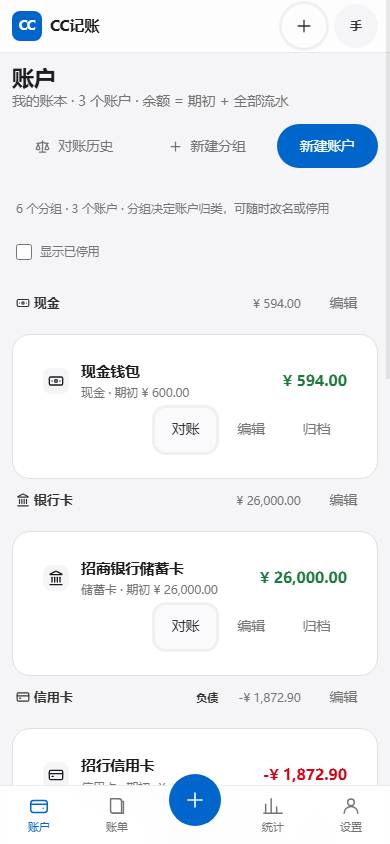
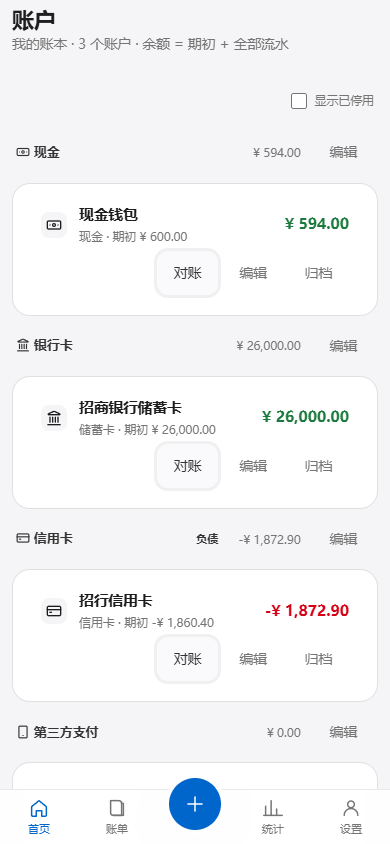
refactor(mobile): 移除顶部固定条 app-bar（导航与记一笔改由 dock 承担）
- chrome.js 删除 topBar() 与 nav-slot；invite.js 不再渲染顶栏
- app.css/mobile.css 删除 .app-bar 系列；顶部安全区改由 .page padding-top 承担
- 修三处依赖顶栏高度的偏移：tx-day__head / tx-toolbar / invite-main
- probe:mobile 改为断言顶栏已移除 + dock 与记一笔入口仍在（101/101）
- 版本同步 1.1.6；SW v27

diff --git a/public/assets/chrome.js b/public/assets/chrome.js
@@ -290,42 +290,6 @@ export function sidebar({ active = '', user, ledger = null, hideCompose = false 
   return shell;
 }
 
-/**
- * 顶部细条（仅移动端显示）。
- * 桌面端品牌 / 导航 / 用户都在左侧栏里，这条不出现。
- * 右上角的 44×44 圆形图标按钮是移动端的第二个记账入口（docs/13 §3.3）。
- */
-export function topBar({ user = null, hideCompose = false } = {}) {
-  // 头像已按设计移除：顶部不再有「头像那一行卡片」。
-  // 未登录（user === null）时保留「登录」入口；会话未就绪（undefined）先留空。
-  const chip =
-    user
-      ? ''
-      : user === null
-        ? `<a class="btn btn--quiet btn--sm" href="/login" data-link>登录</a>`
-        : '';
-
-  const compose = hideCompose
-    ? ''
-    : `<button class="btn btn--icon btn--pearl" type="button" data-compose
-          title="记一笔（长按选模板）" aria-label="记一笔">${icon('plus', 20)}</button>`;
-
-  return h(`
-    <header class="app-bar">
-      <div class="app-bar__inner">
-        <a class="brand" href="/" data-link>
-          <span class="brand__tile">CC</span>
-          <span class="brand__name">CC记账</span>
-        </a>
-        <div class="app-bar__right">
-          ${compose}
-          ${chip}
-        </div>
-      </div>
-    </header>
-  `);
-}
-
 /** 一行版权页脚 */
 export function siteFooter() {
   return h(`
@@ -336,7 +300,7 @@ export function siteFooter() {
 }
 
 /**
- * 页面外框：左侧导航 + （移动端）顶栏 + 内容 + 页脚 + （移动端）底部导航。
+ * 页面外框：左侧导航 + 内容 + 页脚 + （移动端）底部导航。
  * 各记账页只需提供 inner HTML，避免每页重复拼骨架。
  * @param {{active?:string, user?:object|null, ledger?:object|null, inner?:string, hideCompose?:boolean}} cfg
  */
@@ -359,7 +323,6 @@ export function appFrame({ active = '', user, ledger = null, inner = '', hideCom
     <div class="shell">
       <div data-role="sidebar-slot"></div>
       <div class="shell__main">
-        <div data-role="nav-slot"></div>
         <main class="page">${inner}</main>
         <div data-role="footer-slot"></div>
       </div>
@@ -369,10 +332,9 @@ export function appFrame({ active = '', user, ledger = null, inner = '', hideCom
   root
     .querySelector('[data-role=sidebar-slot]')
     .replaceWith(sidebar({ active, user, ledger, hideCompose }));
-  root.querySelector('[data-role=nav-slot]').replaceWith(topBar({ user, hideCompose }));
   root.querySelector('[data-role=footer-slot]').replaceWith(siteFooter());
   /**
-   * 桌面两处「记一笔」（侧栏 CTA、移动端顶栏图标）都接上**同一个**手势处理器：
+   * 「记一笔」入口（侧栏 CTA、移动端 TabBar 动作位）都接上**同一个**手势处理器：
    * 短按跳空表单、长按出模板面板。`data-compose` 是唯一的识别标记 ——
    * 移动端 TabBar 的动作位也是它（那边自己包了一层 `.mega-host` 做定位上下文）。
    */

diff --git a/public/assets/mobile.css b/public/assets/mobile.css
@@ -56,12 +56,13 @@
     --page-gutter: 12px; /* 紧凑化：20/16 太宽，账单行更易折行 */
     --card-gap: 8px; /* 紧凑化：卡片间留白收到 8（spacing.sm 下限） */
     --tabbar-h: 54px; /* 紧凑化：5 槽 + 抬升动作位，仍 ≥44 标签底线 */
-    --appbar-h: 48px; /* 紧凑化：顶栏更薄 */
   }
 
-  /* ---------- 页面容器 ---------- */
+  /* ---------- 页面容器 ----------
+     顶栏（.app-bar）已移除：顶部安全区改由 .page 自己的 padding-top 承担，
+     否则刘海机型的内容会顶到状态栏底下。 */
   .page {
-    padding: 8px var(--page-gutter)
+    padding: calc(8px + env(safe-area-inset-top, 0px)) var(--page-gutter)
       calc(var(--tabbar-h) + env(safe-area-inset-bottom, 0px) + 36px);
     gap: 12px;
   }
@@ -75,26 +76,8 @@
     padding-bottom: calc(20px + var(--tabbar-h));
   }
 
-  /* ---------- 顶栏：磨砂 + 安全区 ----------
-     00-DESIGN 的 floating sticky bar 语法：backdrop-blur + hairline，
-     不给投影（投影只给脱离页面流的浮层）。 */
-  .app-bar {
-    z-index: 25;
-    padding-top: env(safe-area-inset-top, 0px);
-  }
-
-  .app-bar__inner {
-    height: var(--appbar-h);
-    padding: 0 var(--page-gutter);
-  }
-
-  .brand__name {
-    font-size: 15px;
-  }
-
-  .app-bar__right .btn {
-    min-height: 44px;
-  }
+  /* 顶栏（.app-bar）已按设计移除：移动端顶部不再有固定的品牌条，
+     品牌与「记一笔」分别由侧栏（桌面）与底部 TabBar 动作位承担。 */
 
   /* 头像字符（无图时取昵称首字）在圆内居中：grid 居中只管盒子，
      字符本身还会被字体行高带偏，显式压掉行高才真正居中。 */
@@ -365,12 +348,12 @@
   }
 
   /* 日期头吸顶：专业记账 App（随手记 / YNAB）的标配 —— 长列表滚动时
-     当前看的是哪一天始终钉在顶栏正下方，当日收支小计不丢。
-     背景用页面底色（--c-canvas），行在下方滑过时干净遮住；顶栏 sticky 在
-     top:0、本头 sticky 在 appbar-h + 安全区，两者不重叠。纯 CSS、未动结构。 */
+     当前看的是哪一天始终钉在顶部，当日收支小计不丢。
+     背景用页面底色（--c-canvas），行在下方滑过时干净遮住；顶部已无顶栏，
+     本头 sticky 在安全区之下（刘海机型不钻到状态栏底下）。纯 CSS、未动结构。 */
   .tx-day__head {
     position: sticky;
-    top: calc(var(--appbar-h) + env(safe-area-inset-top, 0px));
+    top: env(safe-area-inset-top, 0px);
     z-index: 5;
     margin-bottom: 4px;
     padding: 4px 4px 2px;

diff --git a/public/assets/app.css b/public/assets/app.css
@@ -695,34 +695,6 @@ a.acct-row:active {
   color: currentColor;
 }
 
-/* --------- 3.4 顶部细条（仅移动端；桌面由侧栏承担品牌与用户） --------- */
-.app-bar {
-  position: sticky;
-  top: 0;
-  z-index: 20;
-  background: var(--c-frost-bg);
-  -webkit-backdrop-filter: var(--frost-blur);
-  backdrop-filter: var(--frost-blur);
-  border-bottom: 1px solid var(--c-hairline-soft);
-}
-
-.app-bar__inner {
-  max-width: var(--w-content);
-  margin: 0 auto;
-  padding: 0 var(--gutter);
-  height: var(--nav-h);
-  display: flex;
-  align-items: center;
-  gap: 12px;
-}
-
-.app-bar__right {
-  margin-left: auto;
-  display: flex;
-  align-items: center;
-  gap: 8px;
-}
-
 /* --------- 3.5 品牌 --------- */
 .brand {
   display: inline-flex;
@@ -1671,11 +1643,12 @@ a.acct-row:active {
    十·补充、邀请落地页（整页一张居中卡片）
    ========================================================================== */
 .invite-main {
-  min-height: calc(100dvh - var(--nav-h) - 64px);
+  /* 顶栏已移除：不再扣掉 --nav-h，否则底部空出一条；顶部补安全区 */
+  min-height: calc(100dvh - 64px);
   display: flex;
   align-items: center;
   justify-content: center;
-  padding: 40px var(--gutter);
+  padding: calc(40px + env(safe-area-inset-top, 0px)) var(--gutter) 40px;
   background: var(--c-parchment);
 }
 
@@ -5955,14 +5928,7 @@ a.acct-row:hover {
    十四、响应式
    ========================================================================== */
 
-/* --------- 桌面（≥1024px）：左侧导航栏承担品牌 / 导航 / 用户 --------- */
-@media (min-width: 1024px) {
-  .shell .app-bar {
-    display: none;
-  }
-}
-
-/* --------- 平板与手机（≤1023px）：收起侧栏，改顶栏 + 底部 TabBar --------- */
+/* --------- 平板与手机（≤1023px）：收起侧栏，底部 TabBar --------- */
 @media (max-width: 1023px) {
   .shell {
     grid-template-columns: minmax(0, 1fr);
@@ -6242,9 +6208,10 @@ a.acct-row:hover {
 }
 
 @media (max-width: 1023px) {
-  /* 顶栏在移动端是 sticky 的（z-index 20），工具栏必须让开它的高度 */
+  /* 顶栏（.app-bar）已移除：工具栏直接吸在顶部，不再让出 --nav-h
+     （否则上方会空出一条、行从缝里穿过去）；刘海机型只需让开安全区。 */
   .tx-toolbar {
-    top: var(--nav-h);
+    top: env(safe-area-inset-top, 0px);
   }
 
   /* 批量选择条要让开底部 TabBar，否则按钮被压住点不到 */

diff --git a/public/assets/views/invite.js b/public/assets/views/invite.js
@@ -4,7 +4,7 @@
  */
 import { Api, ApiError } from '../api.js';
 import { auth } from '../store.js';
-import { siteFooter, topBar } from '../chrome.js';
+import { siteFooter } from '../chrome.js';
 import { avatarHtml, esc, formatDateTime, h, LEDGER_TYPE_LABEL, ROLE_LABEL, setLoading, toast } from '../ui.js';
 
 const INVALID_REASON = {
@@ -16,15 +16,12 @@ const INVALID_REASON = {
 function shell(cardInner) {
   const view = h(`
     <div>
-      <div data-role="nav-slot"></div>
       <main class="invite-main">
         <div class="invite-card">${cardInner}</div>
       </main>
       <div data-role="footer-slot"></div>
     </div>
   `);
-  // 未登录时 topBar 自动渲染「登录」按钮；已登录时渲染用户胶囊（可进「我的」）
-  view.querySelector('[data-role=nav-slot]').replaceWith(topBar({ user: auth.me }));
   view.querySelector('[data-role=footer-slot]').replaceWith(siteFooter());
   return view;
 }

diff --git a/public/sw.js b/public/sw.js
@@ -21,7 +21,7 @@
  * 静态资源走 SWR，不换版本号的话用户第一次刷新拿到的仍是旧 JS ——
  * 正好是要修的那份，会被当成「没修好」。
  */
-const VERSION = 'cc-ledger-v26';
+const VERSION = 'cc-ledger-v27';
 const SHELL = `${VERSION}-shell`;
 const STATIC = `${VERSION}-static`;
 const API = `${VERSION}-api`;

diff --git a/src/config/env.ts b/src/config/env.ts
@@ -45,7 +45,7 @@ const EnvSchema = z.object({
   ENABLE_SCHEDULER: boolEnv(true),
   BACKUP_ENABLED: boolEnv(true),
   BACKUP_RETENTION_DAYS: z.coerce.number().int().min(0).default(14),
-  APP_VERSION: z.string().min(1).default('1.1.5'),
+  APP_VERSION: z.string().min(1).default('1.1.6'),
 });
 
 export type Env = z.infer<typeof EnvSchema>;

diff --git a/DEPLOY-绿联NAS.md b/DEPLOY-绿联NAS.md
@@ -216,7 +216,7 @@ cat .env
 | 配置项 | 作用 | 能不能改 |
 |---|---|---|
 | `build: context: .` | 用当前目录的 `Dockerfile` 构建镜像 | 别改 |
-| `image: ${CC_IMAGE:-cc-ledger:1.1.5}` | 用哪个镜像：不设 `CC_IMAGE` 就用本地构建的这个名字；设成 `ghcr.io/shayi/cc-ledger:latest` 就是拉 GitHub 构建好的 | 可改（见 5.0） |
+| `image: ${CC_IMAGE:-cc-ledger:1.1.6}` | 用哪个镜像：不设 `CC_IMAGE` 就用本地构建的这个名字；设成 `ghcr.io/shayi/cc-ledger:latest` 就是拉 GitHub 构建好的 | 可改（见 5.0） |
 | `restart: unless-stopped` | **开机自启的核心**：容器退出就自动拉起；你手动停的则不再拉 | 见第五节 |
 | `ports: "3000:3000"` | **端口映射**，见第六节 | 端口冲突时只改左边 |
 | `JWT_SECRET` | 登录凭证密钥 | **必改**，其余可不动 |
@@ -270,7 +270,7 @@ echo 'CC_IMAGE=ghcr.io/shayi/cc-ledger:latest' >> .env
 ```
 
 > `CC_IMAGE` 不是应用的环境变量，只被 `docker-compose.yml` 读取，用来决定「用哪个镜像」。
-> 不写这一行 = 走本地构建（默认 `cc-ledger:1.1.5`）。
+> 不写这一行 = 走本地构建（默认 `cc-ledger:1.1.6`）。
 
 **第 2 步：登录 ghcr**（镜像设为 public 后可以跳过这步）
 
@@ -299,7 +299,7 @@ docker compose up -d
 |---|---|---|
 | `latest` | 每次推 `main` | 日常用这个 |
 | `sha-626e08c` | 每次构建 | 想钉死到某一次提交 |
-| `v1.1.5` | 打了 `v*` tag | 固定版本 |
+| `v1.1.6` | 打了 `v*` tag | 固定版本 |
 
 **想把镜像设为 public（这样任何机器不用登录就能拉）**：
 GitHub → 你的头像 → Your profile → **Packages** → `cc-ledger` → 右侧 **Package settings** →
@@ -717,7 +717,7 @@ curl http://127.0.0.1:3000/healthz
 {
   "status": "ok",
   "app": "CC记账",
-  "version": "1.1.5",
+  "version": "1.1.6",
   "uptimeSeconds": 3944,
   "database": { "connected": true, "migrationsApplied": 17, "walMode": true },
   "scheduler": { "running": true, "nextRun": "...", "tasks": [] }

diff --git a/CHANGELOG.md b/CHANGELOG.md
@@ -4,6 +4,25 @@
 打 `v*` tag 时 GitHub Actions 会产出同名的固定版本镜像（如 `v1.1.0`），
 推 `main` 时产出 `latest` 与 `sha-xxxxxxx`。
 
+## 1.1.6 — 2026-10-27
+
+### 改进（手机端：删除顶部固定条 app-bar）
+- **顶部固定条（`.app-bar`）整体移除**：移动端顶部不再有「CC记账 + 记一笔」那条
+  磨砂细条，内容直接从页面标题开始，首屏多出约 48px。
+  它是 `position: sticky` 的常驻条，此前承载品牌字标与第二个记账入口；
+  现在品牌由桌面侧栏承担、「记一笔」由底部 dock 的动作位承担（dock 行为不变）。
+- **顺带修掉三处依赖顶栏高度的偏移** —— 不移就会在移除后露出错位：
+  · `.tx-day__head` 日期头吸顶去掉 `--appbar-h`，只留安全区；
+  · `.tx-toolbar` 吸顶 `top` 从 `var(--nav-h)` 改为安全区（否则上方空出 56px、
+    列表行从缝里穿过去）；
+  · `.invite-main` 的 `min-height` 不再扣 `--nav-h`，并补上顶部安全区。
+- **顶部安全区改由 `.page` 自己的 `padding-top` 承担**（原先是顶栏的
+  `padding-top: env(safe-area-inset-top)` 在挡），刘海机型内容不会顶到状态栏底下。
+- 邀请页不再渲染顶栏：未登录的「登录」入口原先只挂在顶栏上，
+  而该页卡片内本身就有「登录 / 注册后加入」按钮，功能不丢。
+- `probe:mobile` 相应改为断言「顶栏已整体移除 + dock 与记一笔入口仍在 +
+  内容不再被顶栏顶下去」。
+
 ## 1.1.5 — 2026-10-27
 
 ### 改进（手机端 UI 精修，功能与后端不变）
